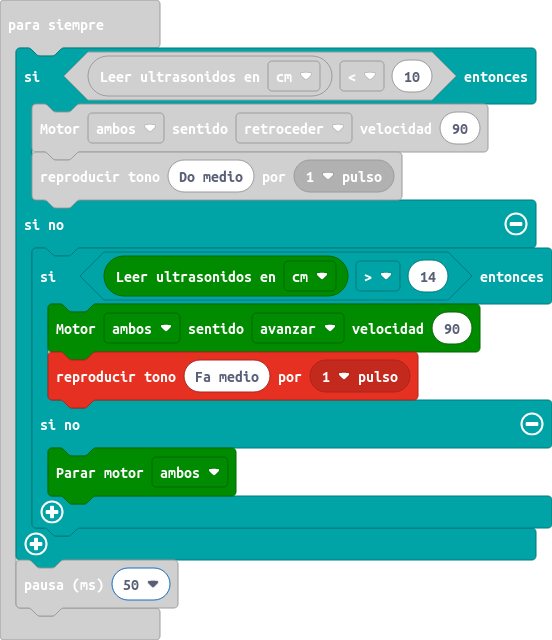
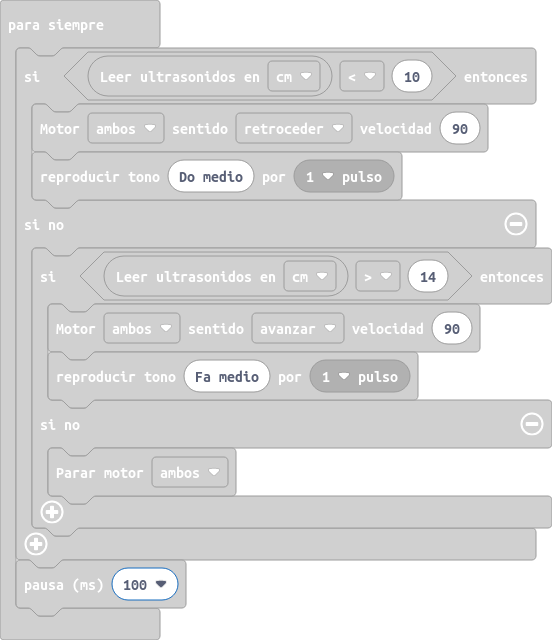
Con pausa de 100ms

diff --git a/main.ts b/main.ts
@@ -12,5 +12,5 @@ basic.forever(function () {
             maqueen.motorStop(maqueen.Motors.All)
         }
     }
-    basic.pause(50)
+    basic.pause(100)
 })
